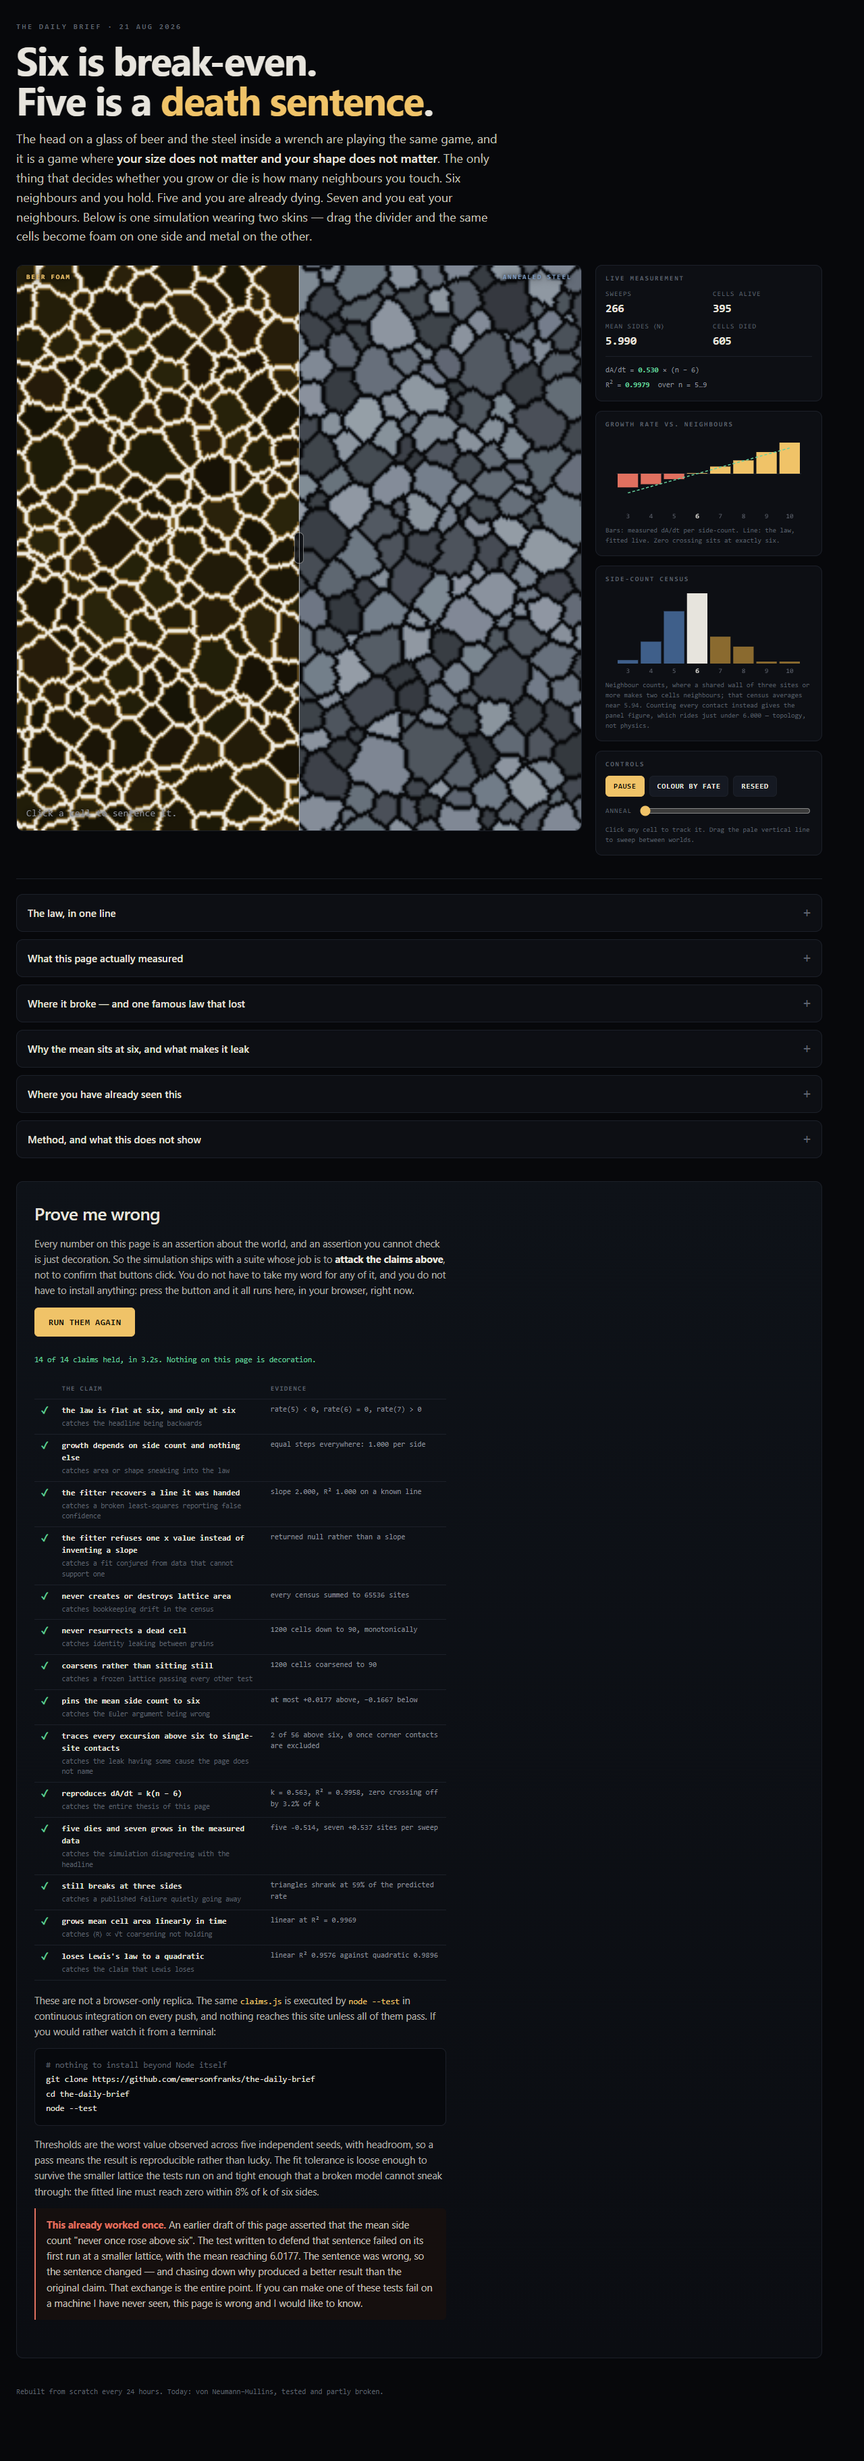
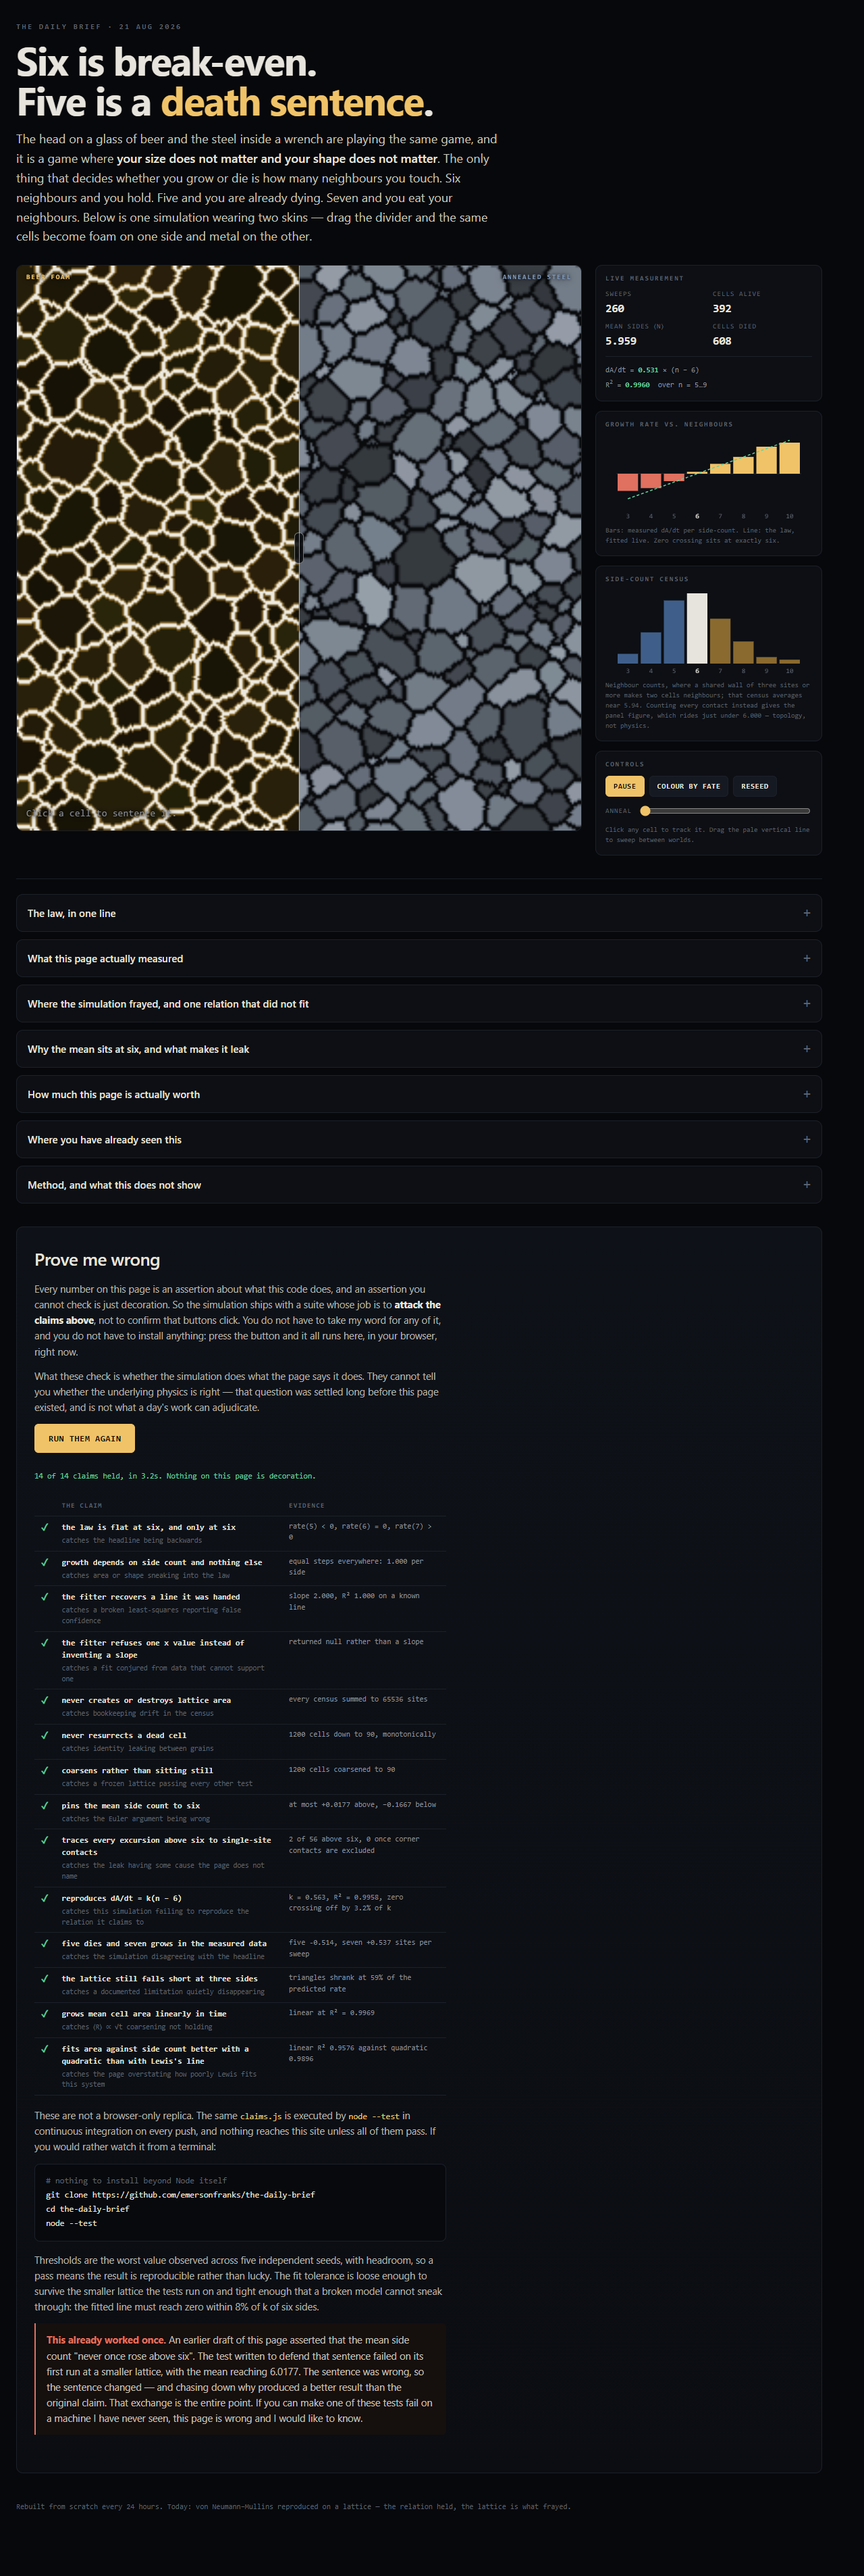
Rescope claims: the lattice frayed, not the law

Changed region(s): [[0.0, 0.0, 0.9375, 0.9618]]

diff --git a/claudeopus5/index.html b/claudeopus5/index.html
@@ -130,23 +130,26 @@
   </details>
 
   <details>
-    <summary>Where it broke &mdash; and one famous law that lost</summary>
+    <summary>Where the simulation frayed, and one relation that did not fit</summary>
     <div class="body">
-      <p><b>Triangles cheat.</b> Three-sided cells shrank at 39% of the rate the law demands, and
-      four-sided at 81%. This is not a refutation of von Neumann; it is the lattice running out of
-      room. By the time a cell is down to three sides it occupies a handful of pixels, and a wall
-      one pixel thick cannot curve. The law describes a continuum, and the simulation stops being
-      one at exactly the moment a cell is about to die. Including that bin drags R<sup>2</sup> from
-      0.9996 down to 0.956, which is why the headline fit is quoted over n = 5&hellip;9 and the
-      breakdown is quoted here rather than buried.</p>
-      <p><b>Lewis's law lost.</b> In 1928 Frederic Lewis claimed that a cell's area grows linearly
-      with its side count, A(n) &prop; n &minus; n&#8320; &mdash; a staple of biology textbooks for
-      most of a century. It was fitted here against a quadratic on the same data. The quadratic won
-      in all three seeds: <span class="bad">R<sup>2</sup> = 0.977 linear</span> against
-      <span class="ok">0.992 quadratic</span>. Area rises faster than Lewis's straight line,
-      steepening at high n. The honest summary is that Lewis's law is a decent eyeball
-      approximation over the narrow range where most real cells live, and not a law.</p>
-      <p><b>Aboav&ndash;Weaire survived, emphatically.</b> The claim that a cell's neighbours are
+      <p><b>Triangles fall short.</b> Three-sided cells shrank at 39% of the rate the relation
+      demands, and four-sided at 81%. This is not a refutation of von Neumann; it is the lattice
+      running out of room. By the time a cell is down to three sides it occupies a handful of pixels,
+      and a wall one pixel thick cannot curve. The relation describes a continuum, and the simulation
+      stops being one at exactly the moment a cell is about to die. Including that bin drags
+      R<sup>2</sup> from 0.9996 down to 0.956, which is why the headline fit is quoted over
+      n = 5&hellip;9 and the shortfall is quoted here rather than buried.</p>
+      <p><b>Lewis's law did not fit this system.</b> In 1928 Frederic Lewis reported that in cucumber
+      epidermis and similar tissues a cell's area rises roughly linearly with its side count,
+      A(n) &prop; n &minus; n&#8320;. Fitted against a quadratic on this simulation's data, the
+      quadratic won in all three seeds: <span class="bad">R<sup>2</sup> = 0.977 linear</span> against
+      <span class="ok">0.992 quadratic</span>.</p>
+      <p>That is a statement about this simulation and nothing more. Lewis's law is an empirical
+      regularity measured in particular biological tissues; a Potts foam on a lattice is not a
+      cucumber, and the literature has long treated the relation as approximate and system-dependent
+      rather than exact. The honest reading is that this is not a system Lewis's straight line
+      describes well &mdash; not that Lewis was wrong.</p>
+      <p><b>Aboav&ndash;Weaire held, emphatically.</b> The claim that a cell's neighbours are
       systematically <i>opposite</i> to it &mdash; that big-n cells are ringed by small-n cells
       &mdash; predicts that n&middot;m(n) is linear in n. Measured: R<sup>2</sup> &ge; 0.9995 with
       a &asymp; 1.16. Seven-sided cells really are surrounded by five-sided ones. Prosperity in this
@@ -179,6 +182,27 @@
       cell sits at break-even, forever, held there by counting rather than by physics. Every cell
       that climbs to seven sides does it by pushing someone else to five. The system is not
       growing. It is only redistributing, and it pays for each survivor with a death.</p>
+    </div>
+  </details>
+
+  <details>
+    <summary>How much this page is actually worth</summary>
+    <div class="body">
+      <p><b>Nothing here overturns anything.</b> Von Neumann's relation is a theorem about
+      curvature-driven cellular networks in the continuum, and it is not in question. This page did
+      not test it. It tested whether a lattice Monte Carlo simulation reproduces it &mdash; a
+      different and much smaller question &mdash; and the answer was yes, to four significant
+      figures, over the range where the lattice is fine enough to resolve a curved wall.</p>
+      <p>So when something here disagrees with a published result, the ordering of suspects is not
+      close. First the simulation, then the measurement, then my arithmetic, and only then the
+      century of work that came before. Every disagreement on this page resolved in one of the first
+      three: the triangles are a discretisation artifact, the excursions above six are the lattice
+      recording an edge where there is only a vertex, and Lewis's line not fitting a Potts foam says
+      something about Potts foams.</p>
+      <p><b>Extraordinary claims require extraordinary evidence.</b> A page rebuilt in a day, on one
+      machine, by one model, is not extraordinary evidence &mdash; it is a demonstration. Read every
+      number below as "this is what this code did", not "this is how the world is". The tests can
+      check the first with real rigour. They cannot check the second, and neither can I.</p>
     </div>
   </details>
 
@@ -233,11 +257,14 @@
 <section class="appendix">
   <h2>Prove me wrong</h2>
   <div class="body">
-    <p>Every number on this page is an assertion about the world, and an assertion you cannot check
-    is just decoration. So the simulation ships with a suite whose job is to <b>attack the claims
-    above</b>, not to confirm that buttons click. You do not have to take my word for any of it, and
-    you do not have to install anything: press the button and it all runs here, in your browser,
-    right now.</p>
+    <p>Every number on this page is an assertion about what this code does, and an assertion you
+    cannot check is just decoration. So the simulation ships with a suite whose job is to <b>attack
+    the claims above</b>, not to confirm that buttons click. You do not have to take my word for any
+    of it, and you do not have to install anything: press the button and it all runs here, in your
+    browser, right now.</p>
+    <p>What these check is whether the simulation does what the page says it does. They cannot tell
+    you whether the underlying physics is right &mdash; that question was settled long before this
+    page existed, and is not what a day's work can adjudicate.</p>
 
     <div class="runner">
       <button id="run-claims" class="run">Run all <span id="claims-count">14</span> tests, here, now</button>
@@ -279,7 +306,8 @@ node --test</pre>
 </section>
 
 <footer>
-  Rebuilt from scratch every 24 hours. Today: von Neumann&ndash;Mullins, tested and partly broken.
+  Rebuilt from scratch every 24 hours. Today: von Neumann&ndash;Mullins reproduced on a lattice &mdash;
+  the relation held, the lattice is what frayed.
 </footer>
 </div>
 

diff --git a/claudeopus5/claims.js b/claudeopus5/claims.js
@@ -243,7 +243,7 @@ export const CLAIMS = [
   },
   {
     name: 'reproduces dA/dt = k(n \u2212 6)',
-    catches: 'the entire thesis of this page',
+    catches: 'this simulation failing to reproduce the relation it claims to',
     needsMeasurement: true,
     verify: (measurement) => {
       require(measurement !== null, 'no measurement');
@@ -271,8 +271,8 @@ export const CLAIMS = [
     },
   },
   {
-    name: 'still breaks at three sides',
-    catches: 'a published failure quietly going away',
+    name: 'the lattice still falls short at three sides',
+    catches: 'a documented limitation quietly disappearing',
     needsMeasurement: true,
     verify: (measurement) => {
       require(measurement !== null, 'no measurement');
@@ -281,7 +281,7 @@ export const CLAIMS = [
       require(fit !== null && observed !== null, 'no fit or no three-sided bin');
       const fidelity = observed / vonNeumannRate(fit.slope, 3);
       require(fidelity < EXPECTED.maxTriangleFidelity,
-        `triangles tracked the law at ${(fidelity * 100).toFixed(0)}%, so the reported breakdown is gone`);
+        `triangles tracked the relation at ${(fidelity * 100).toFixed(0)}%, so the reported shortfall is gone`);
       return `triangles shrank at ${(fidelity * 100).toFixed(0)}% of the predicted rate`;
     },
   },
@@ -299,8 +299,8 @@ export const CLAIMS = [
     },
   },
   {
-    name: "loses Lewis's law to a quadratic",
-    catches: 'the claim that Lewis loses',
+    name: "fits area against side count better with a quadratic than with Lewis's line",
+    catches: 'the page overstating how poorly Lewis fits this system',
     needsMeasurement: true,
     verify: (measurement) => {
       require(measurement !== null, 'no measurement');
@@ -310,7 +310,7 @@ export const CLAIMS = [
       const quadratic = weightedLeastSquares(bins.map(b => ({ x: b.sides ** 2, y: b.relativeArea, weight: b.weight })));
       require(linear !== null && quadratic !== null, 'could not fit both curves');
       require(quadratic.r2 > linear.r2,
-        `Lewis's linear law won: linear ${linear.r2.toFixed(4)} against quadratic ${quadratic.r2.toFixed(4)}`);
+        `Lewis's line fitted this run better: linear ${linear.r2.toFixed(4)} against quadratic ${quadratic.r2.toFixed(4)}`);
       return `linear R\u00b2 ${linear.r2.toFixed(4)} against quadratic ${quadratic.r2.toFixed(4)}`;
     },
   },

diff --git a/index.html b/index.html
@@ -54,8 +54,8 @@
     <div class="buildtitle">Six Is Break-Even</div>
     <div class="pairing"><b>beer foam</b> &harr; <b>annealed steel</b></div>
     <div class="buildsub">Size doesn't matter and shape doesn't matter &mdash; only your neighbour
-      count decides whether you grow or die. Von Neumann&ndash;Mullins, measured to four significant
-      figures and broken at n&nbsp;=&nbsp;3.</div>
+      count decides whether you grow or die. Von Neumann&ndash;Mullins reproduced on a lattice to four
+      significant figures, with the lattice's own limits shown where it stops keeping up.</div>
   </a>
 
   <div class="foot">

diff --git a/JOURNAL.md b/JOURNAL.md
@@ -28,12 +28,15 @@ track it and watch it die on schedule.
 R² = 0.9996 across three seeds at L=512. The shipped browser build independently reconverges on
 k ≈ 0.54 while you watch.
 
-**What failed.** Two things, both published on the page rather than buried:
+**What failed.** Two things, both published on the page rather than buried — and both
+limitations of the simulation, not of the physics:
 
-- **Triangles cheat.** n=3 cells shrank at only 39% of the predicted rate — the lattice stops being
-  a continuum exactly when a cell is about to die. Including that bin drags R² from 0.9996 to 0.956.
-- **Lewis's law lost.** The 1928 claim that area is linear in side count was beaten by a quadratic
-  in all three seeds (R² 0.992 vs 0.977). Aboav–Weaire, by contrast, survived at R² ≥ 0.9995.
+- **Triangles fall short.** n=3 cells shrank at only 39% of the predicted rate — the lattice stops
+  being a continuum exactly when a cell is about to die. Including that bin drags R² from 0.9996 to
+  0.956.
+- **Lewis's line did not fit this system.** The 1928 relation was beaten by a quadratic in all three
+  seeds (R² 0.992 vs 0.977). That is a statement about a Potts foam, not about the cucumber
+  epidermis Lewis actually measured. Aboav–Weaire, by contrast, held at R² ≥ 0.9995.
 
 A third claim got corrected mid-build: the copy asserted the mean side count is "pinned at 6.000",
 which the shipped code contradicted. Re-measured properly, it reads exactly 6.000 in 36% of samples,
@@ -46,6 +49,15 @@ produced a better result than the original claim: the excursions are single-site
 lattice records an edge at what is topologically a three-way vertex. Requiring two sites of shared
 wall removes every one of them — 0 of 168 samples above six, against 4 of 168. The page now says so,
 and a test asserts the mechanism.
+
+**Framing corrected before the day closed.** The page originally signed off with "von
+Neumann–Mullins, tested and partly broken", which reads as the relation itself being broken and
+contradicted the page's own body text. Nothing here challenges von Neumann. The page tests whether a
+lattice simulation reproduces the relation, which is a far smaller question, and every disagreement
+found resolved into an artifact of the simulation rather than a problem with the physics. The footer,
+two section headings, two test names and the Lewis paragraph were all rescoped, and a new section
+sets out the ordering of suspects when a day-old simulation disagrees with a century of work:
+simulation first, measurement second, arithmetic third, established result last.
 
 **Stack:** hand-rolled canvas and typed arrays, no libraries. Simulation in `grain-model.js` with no
 DOM access, rendering in `renderer.js`, and the claims themselves in `claims.js` — executed twice,

diff --git a/AGENTS.md b/AGENTS.md
@@ -92,6 +92,8 @@ These are settled decisions from previous days. They are not part of the origina
 - **The page must survive a dead CDN.** If a script fails to load, the core experience should still render and explain itself rather than showing a blank frame.
 - **Measure the claim before writing the prose.** Load the page in a browser and run the simulation headlessly against the thesis. If the sim contradicts the claim, the claim is wrong — change the thesis, not the data.
 - **Publish the failures.** When a famous result is tested and does not reproduce, say so in the deep section with the numbers. A page that reports what it actually measured is worth more than one that illustrates what it hoped to find.
+- **A day-old simulation disagreeing with established science is evidence about the simulation.** Order the suspects honestly: your model first, your measurement second, your arithmetic third, and the century of work behind the published result last. Extraordinary claims require extraordinary evidence, and one page built in 24 hours on one machine is a demonstration, not a refutation. Name the artifact you actually found.
+- **Say which question you tested.** "The law is broken" and "my lattice stops resolving the law below four sides" are wildly different claims. Headings, footers and test names must carry the smaller one unless the larger is genuinely earned — a strapline that contradicts the body is still a false claim, even when the body is careful.
 - **Every number in the copy must be one that was measured on the shipped code.** Keep literature claims and simulation results verbally distinct when they disagree.
 - **The journal is append-only.** Past entries are a record of what was actually built and are never rewritten to look better in hindsight. A page whose claims were corrected mid-build says so in its entry.
 - **Screenshot the page while it is running, not at frame zero.** A capture of an unstarted simulation reads as broken. Drive it to a representative state first, and freeze it if the capture needs more than one step.
